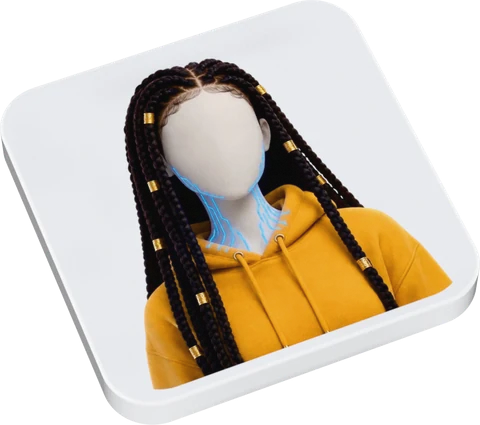
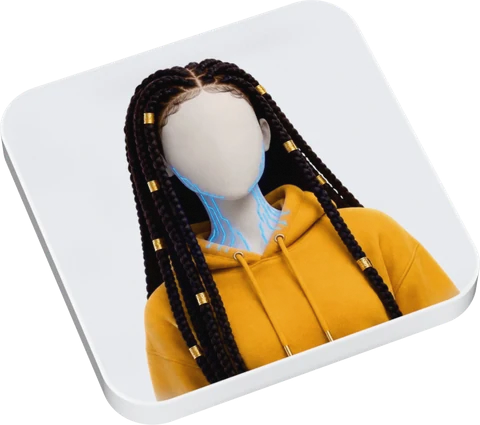
Floating tiles: characters run to the rim; players section lands in view as the blue fills and fades straight in

Changed region(s): [[0.3125, 0.6729, 0.9688, 0.9482]]

diff --git a/tools/tiles/tile-boot.js b/tools/tiles/tile-boot.js
@@ -15,7 +15,7 @@ import { tileGeometry } from '/src/tiles/geometry.js';
 
 const RAW = await fetch('/tiles/floor-params.json').then((r) => r.json());
 const opt = Object.assign({ name: '03-braids.webp', ai: false, transparent: true, elev: null, mask: false, straight: true, az: 0, bg: null, exposure: null }, window.PARAMS);
-const P = Object.assign({ W: 1920, H: 1080, assetBase: '/tiles' }, RAW, RAW.states?.default ?? {}, { chars: [opt.name], charActive: null, charEdgeSoft: opt.straight ? 0.004 : RAW.charEdgeSoft }, opt.transparent ? { filmGrain: 0 } : {});
+const P = Object.assign({ W: 1920, H: 1080, assetBase: '/tiles' }, RAW, RAW.states?.default ?? {}, { chars: [opt.name], charActive: null, charEdgeSoft: opt.straight ? 0.004 : RAW.charEdgeSoft, charInset: opt.straight ? 0.004 : RAW.charInset }, opt.transparent ? { filmGrain: 0 } : {});
 
 const renderer = new THREE.WebGLRenderer({ antialias: true, preserveDrawingBuffer: true, alpha: opt.transparent });
 renderer.toneMapping = THREE.NeutralToneMapping;

diff --git a/src/components/website/Players.tsx b/src/components/website/Players.tsx
@@ -14,6 +14,8 @@ const card =
 
 export function Players() {
   const [active, setActive] = useState(0);
+  // The section is pulled up over the scroll line's last screen (-mt-[100vh]), so it sits in view the
+  // moment the water has filled it, and is centred in that screen.
   // The section comes in once the accent water has filled the view (AccentWave.tsx) and the section is
   // actually in view, one part at a time: the four cards, then the character, then the detail card. It
   // leaves as the water drains.
@@ -45,7 +47,7 @@ export function Players() {
     <section
       ref={section}
       id="players"
-      className="relative z-30 w-full max-w-[1400px] mx-auto mt-8"
+      className="relative z-30 w-full max-w-[1400px] mx-auto -mt-[100vh] flex min-h-screen flex-col justify-center pt-24"
     >
       <div className="relative px-8 md:px-16">
         {/* soft glow behind the character */}

diff --git a/src/components/website/FloatingBadges.tsx b/src/components/website/FloatingBadges.tsx
@@ -86,7 +86,7 @@ const BADGES: Badge[] = [
 const DRIFT = 22; // px a depth-1 badge moves with the cursor at the edge of the screen
 const SWEEP_S = 1;
 // bump when the tile renders change, so browsers fetch the new ones instead of their cached copies
-const TILES_V = 3;
+const TILES_V = 4;
 const BAND = 34; // band width, % of the tile
 
 export function FloatingBadges() {
